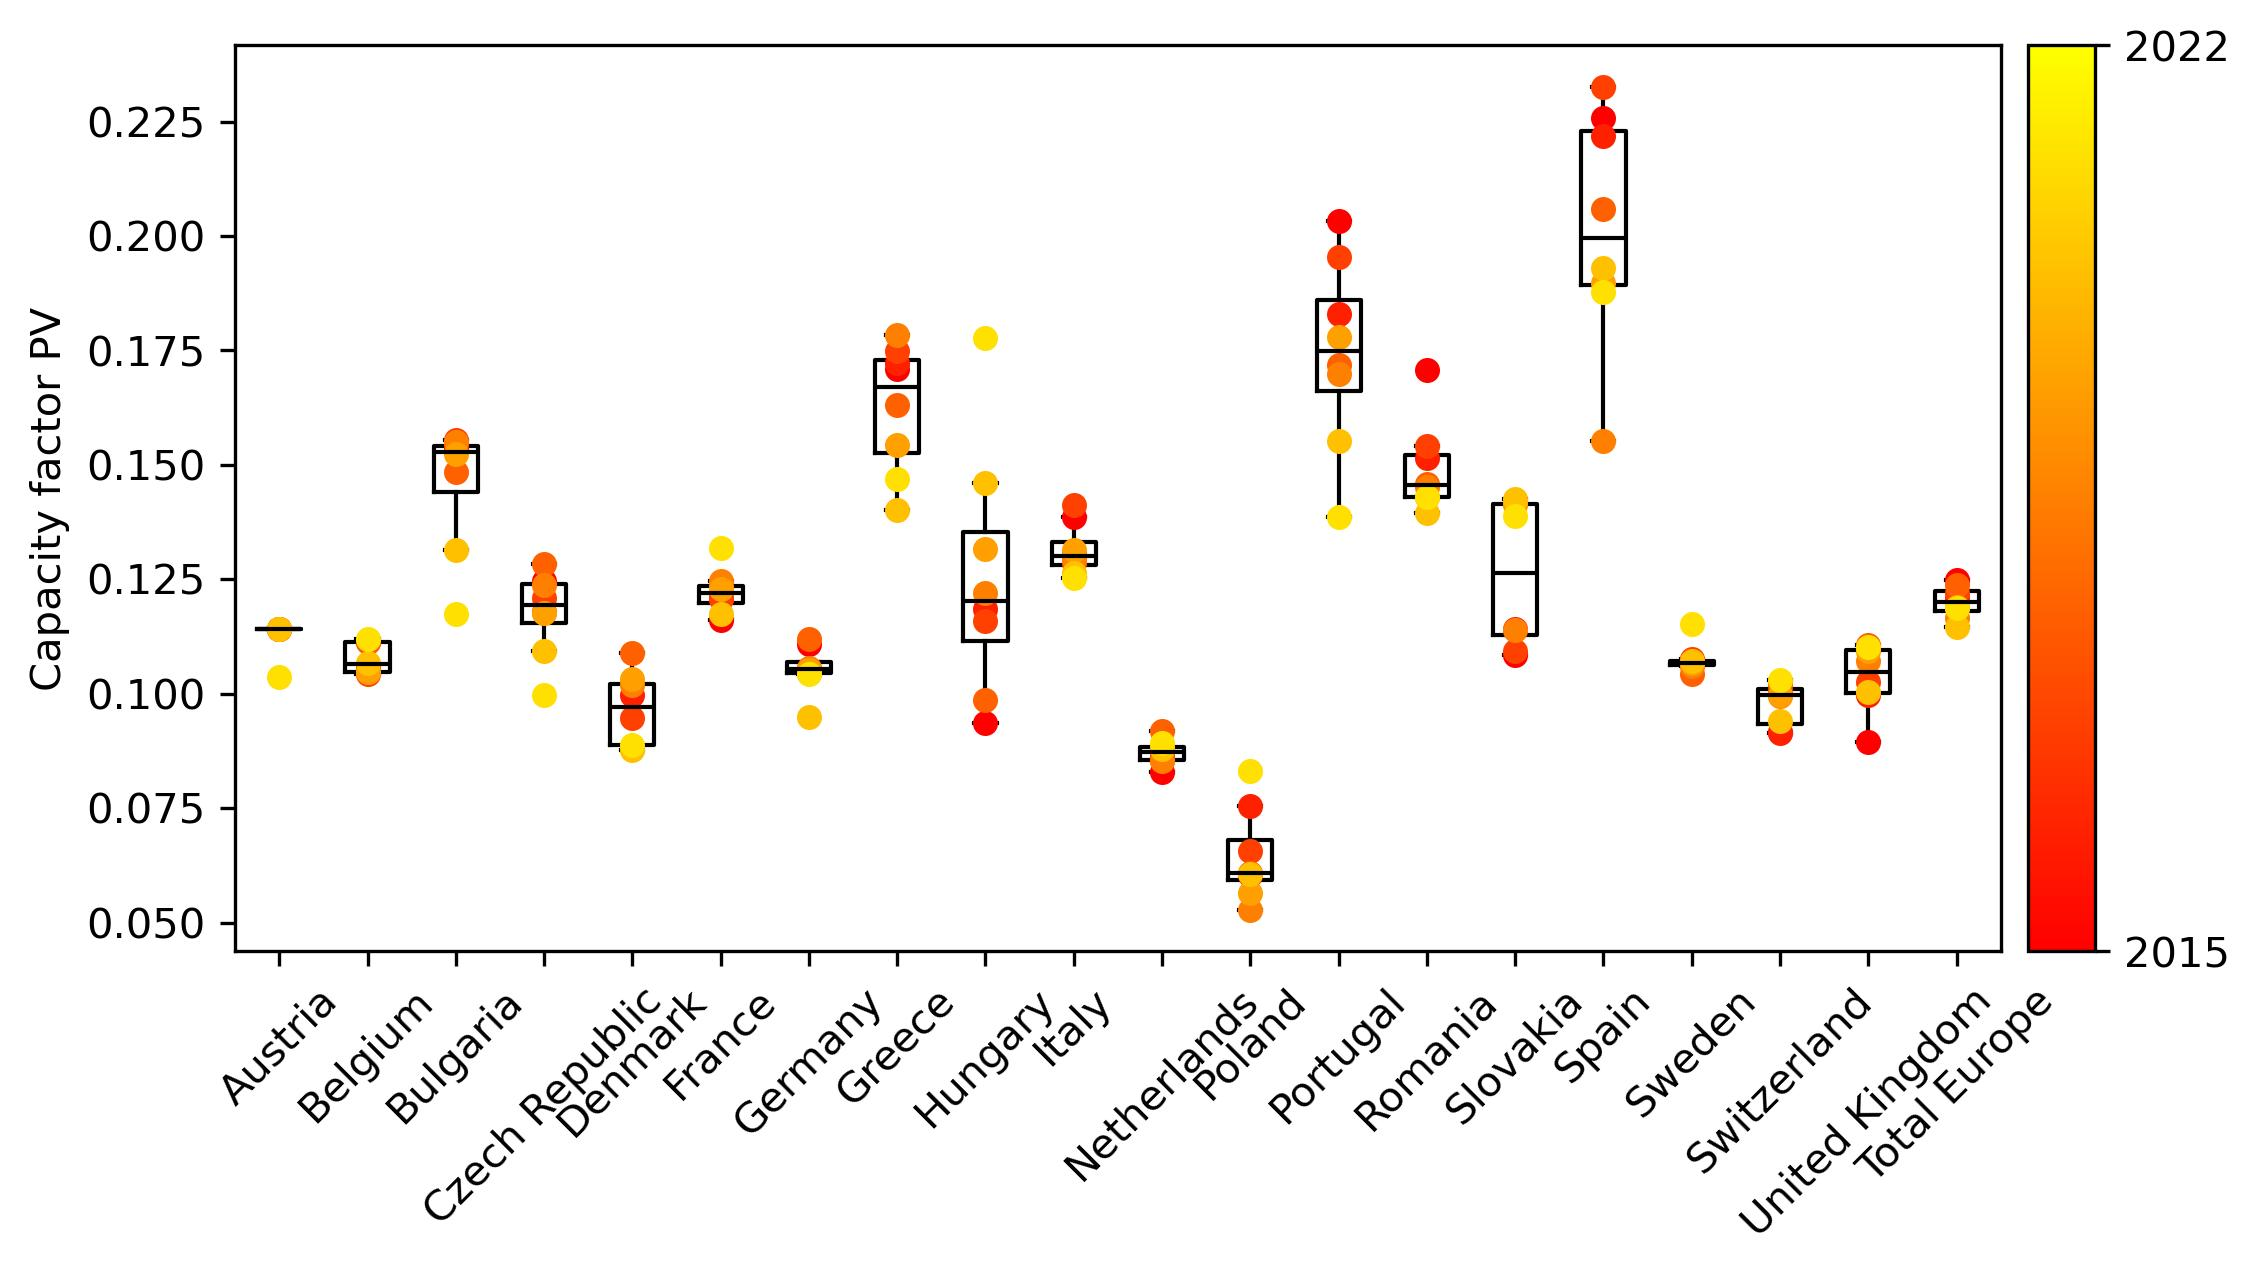
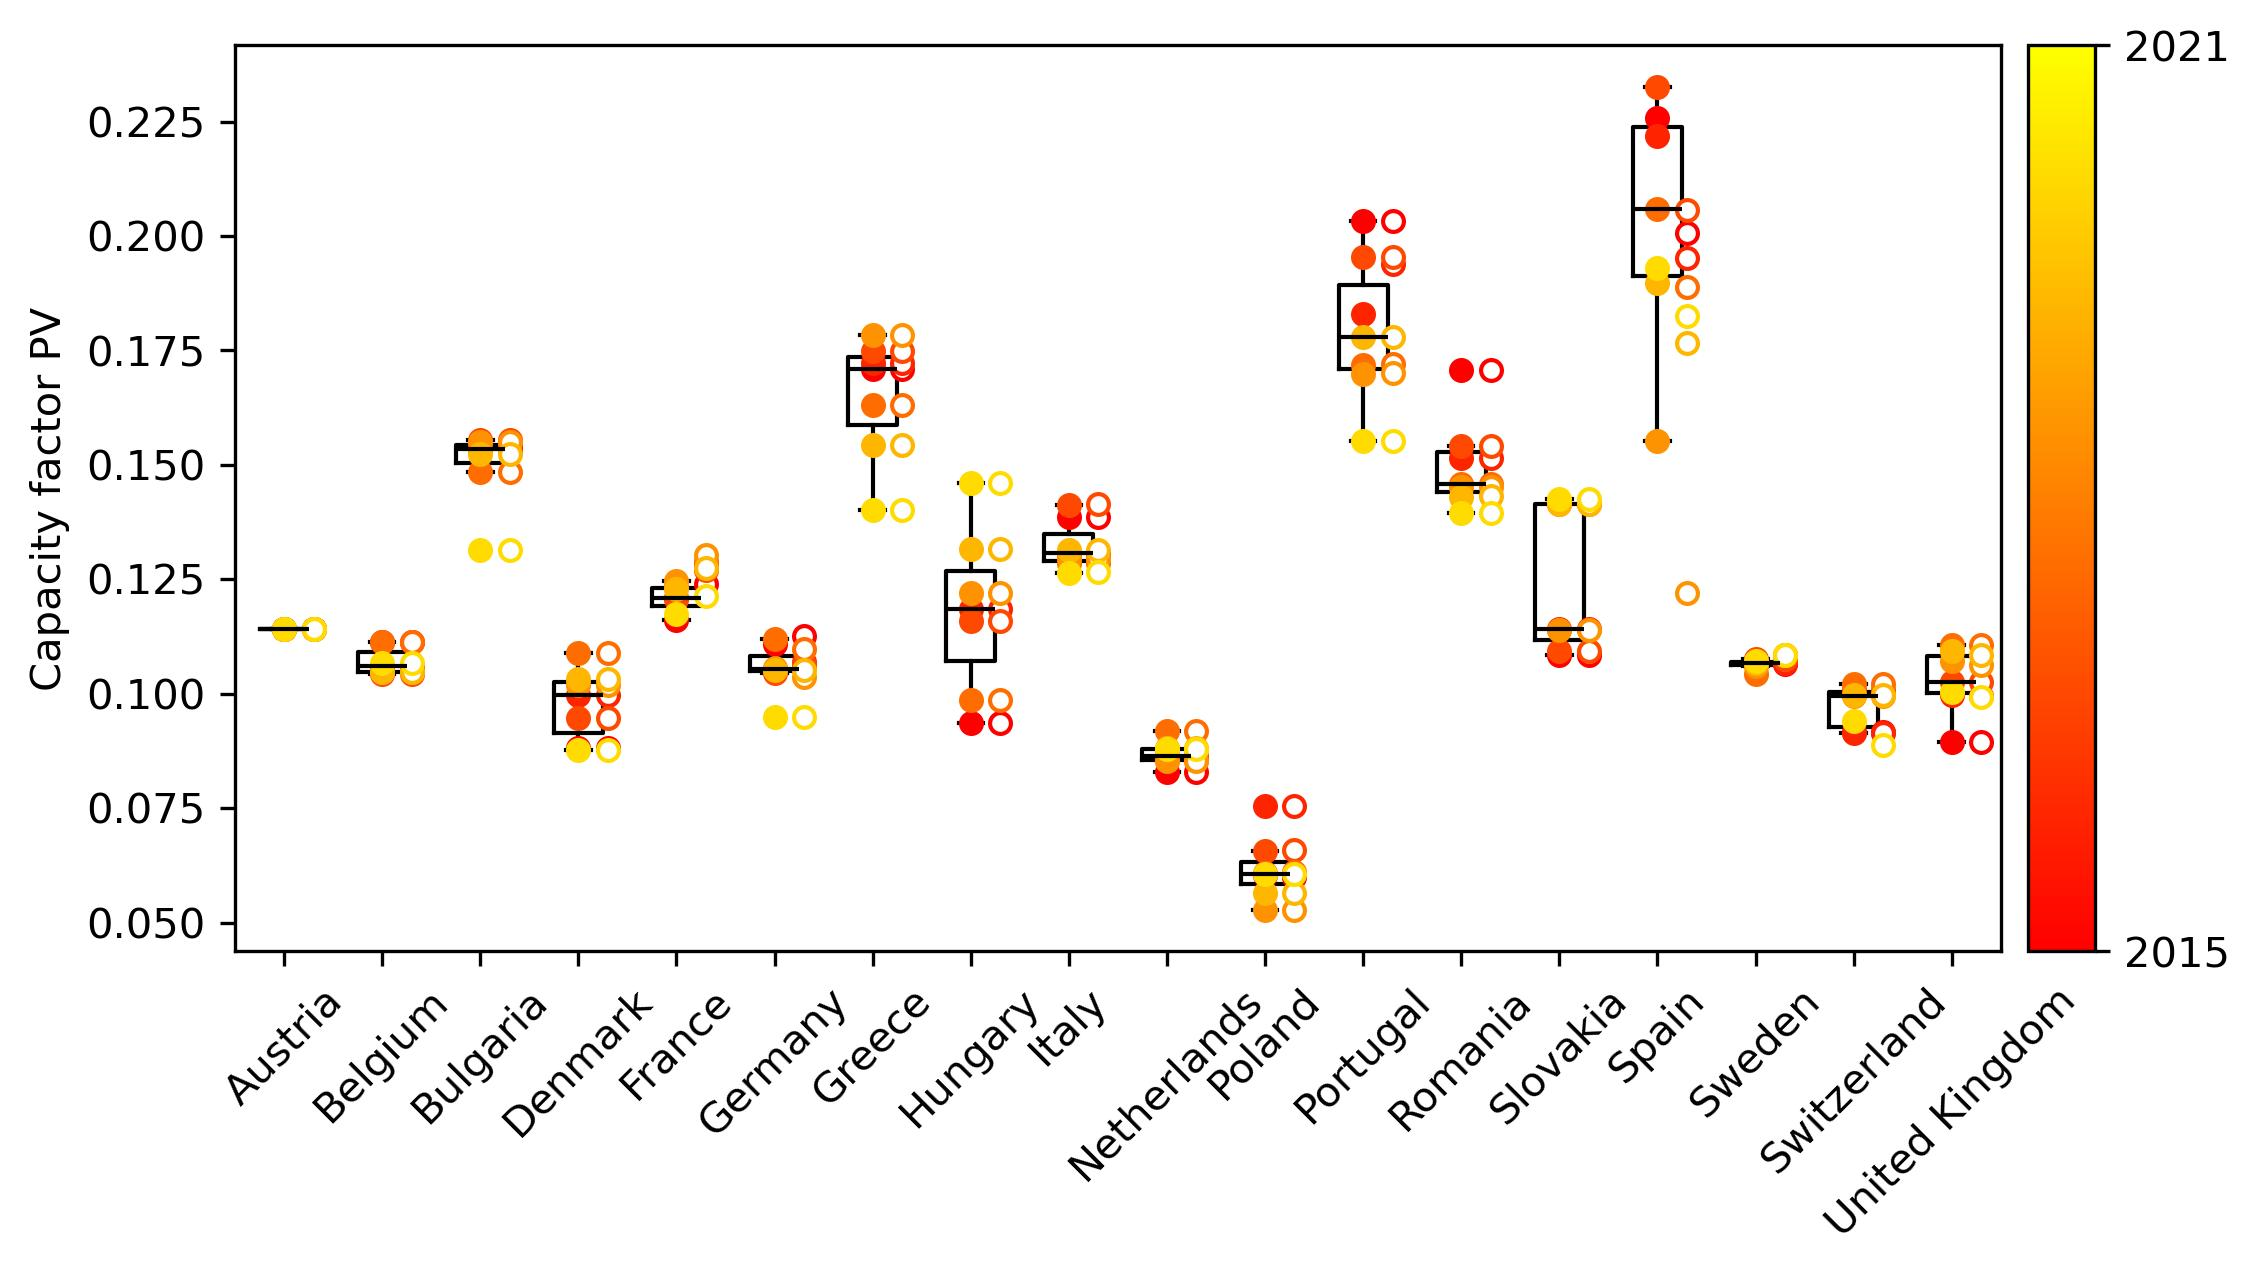
add CF historical BP and IRENA

diff --git a/sandbox_marta/retrive_historical_CF_BP_IRENA.py b/sandbox_marta/retrive_historical_CF_BP_IRENA.py
@@ -6,8 +6,17 @@ import pandas as pd
 import matplotlib.pyplot as plt
 import matplotlib.gridspec as gridspec
 import matplotlib
-import seaborn as sb
 
+data_capacity_IRENA = pd.read_csv('data/RECAP_20231018-202343.csv',
+                         index_col=(0,1), header=1, skiprows=0, 
+                         sep=',', encoding='latin') 
+data_capacity_IRENA.columns=pd.to_numeric(data_capacity_IRENA.columns)
+
+data_generation_IRENA = pd.read_csv('data/RE-ELECGEN_20231018-202430.csv',
+                         index_col=(0,1), header=1, skiprows=0, 
+                         sep=',', encoding='latin') 
+data_generation_IRENA.columns=pd.to_numeric(data_generation_IRENA.columns)
+#%%
 data_capacity_pv = pd.read_excel('data/Statistical Review of World Energy Data.xlsx',
                          sheet_name='Solar Capacity',
                          index_col=0, header=3) 
@@ -27,7 +36,7 @@ countries_pv=[
         'Austria',
        'Belgium',
       'Bulgaria',
-'Czech Republic',
+#'Czech Republic',
        'Denmark',
         'France',
        'Germany',
@@ -43,7 +52,8 @@ countries_pv=[
         'Sweden',
    'Switzerland',
 'United Kingdom',
-'Total Europe',]
+#'Total Europe',
+]
 
 countries_wind=[
 'Austria',
@@ -64,21 +74,27 @@ countries_wind=[
       'Spain',
      'Sweden',
 'United Kingdom',
-'Total Europe',]
+#'Total Europe',
+]
 
-years=np.arange(2015,2023) #data available from 1009 but only data from 2015 is considered 
+years=np.arange(2015,2022) #data available from 1009 but only data from 2015 is considered 
 CF_pv=pd.DataFrame(index=years, columns=countries_pv)
 CF_wind=pd.DataFrame(index=years, columns=countries_wind)
+CF_pv_IRENA=pd.DataFrame(index=years, columns=countries_pv)
+CF_wind_IRENA=pd.DataFrame(index=years, columns=countries_wind)
 
 for country in countries_pv:
     capacity_pv=0.001*data_capacity_pv.loc[country,years] #MW -> GW
     generation_pv=1000*data_generation_pv.loc[country,years] #TWh -> GWh
     CF_pv[country]=(1/8760)*generation_pv/capacity_pv
-
+    CF_pv_IRENA[country]=(1/8760)*1000*data_generation_IRENA.loc[(country,'Solar photovoltaic'),years]/data_capacity_IRENA.loc[(country,'Solar photovoltaic'),years]
+    
 for country in countries_wind:    
     capacity_wind=0.001*data_capacity_wind.loc[country,years] #MW -> GW
     generation_wind=1000*data_generation_wind.loc[country,years] #TWh -> GWh
     CF_wind[country]=(1/8760)*generation_wind/capacity_wind
+    CF_wind_IRENA[country]=(1/8760)*1000*data_generation_IRENA.loc[(country,'Wind'),years]/data_capacity_IRENA.loc[(country,'Wind'),years]
+    
 #%%
 plt.figure(figsize=(8, 4))
 gs1 = gridspec.GridSpec(1, 20)
@@ -94,6 +110,8 @@ cmap = matplotlib.colormaps.get_cmap('autumn')
 for i,year in enumerate(years):
     ax1.plot(np.arange(1,len(countries_pv)+1), CF_pv.loc[year,countries_pv], linewidth=0,
              marker='o', markersize=5, color=cmap(i/len(years)))
+    ax1.plot(np.arange(1,len(countries_pv)+1)+0.3, CF_pv_IRENA.loc[year,countries_pv], linewidth=0,
+             marker='o', markersize=5, markerfacecolor='white', markeredgecolor=cmap(i/len(years)))
 cb = matplotlib.colorbar.ColorbarBase(ax2, cmap=cmap)
 ax2.set_yticks([0,1], [years[0],years[-1]])
 plt.savefig('figures/cf_pv_historical.jpg', 
@@ -113,11 +131,13 @@ cmap = matplotlib.colormaps.get_cmap('viridis')
 
 for i,year in enumerate(years):
     ax1.plot(np.arange(1,len(countries_wind)+1), CF_wind.loc[year,countries_wind], linewidth=0,
-             marker='o', markersize=5, color=cmap(i/len(years)))
+              marker='o', markersize=5, color=cmap(i/len(years)))
+    ax1.plot(np.arange(1,len(countries_wind)+1)+0.3, CF_wind_IRENA.loc[year,countries_wind], linewidth=0,
+              marker='o', markersize=5, markerfacecolor='white', markeredgecolor=cmap(i/len(years)))
 cb = matplotlib.colorbar.ColorbarBase(ax2, cmap=cmap)
 ax2.set_yticks([0,1], [years[0],years[-1]])
 plt.savefig('figures/cf_wind_historical.jpg', 
-             dpi=300, bbox_inches='tight')
+              dpi=300, bbox_inches='tight')
 
 
 
